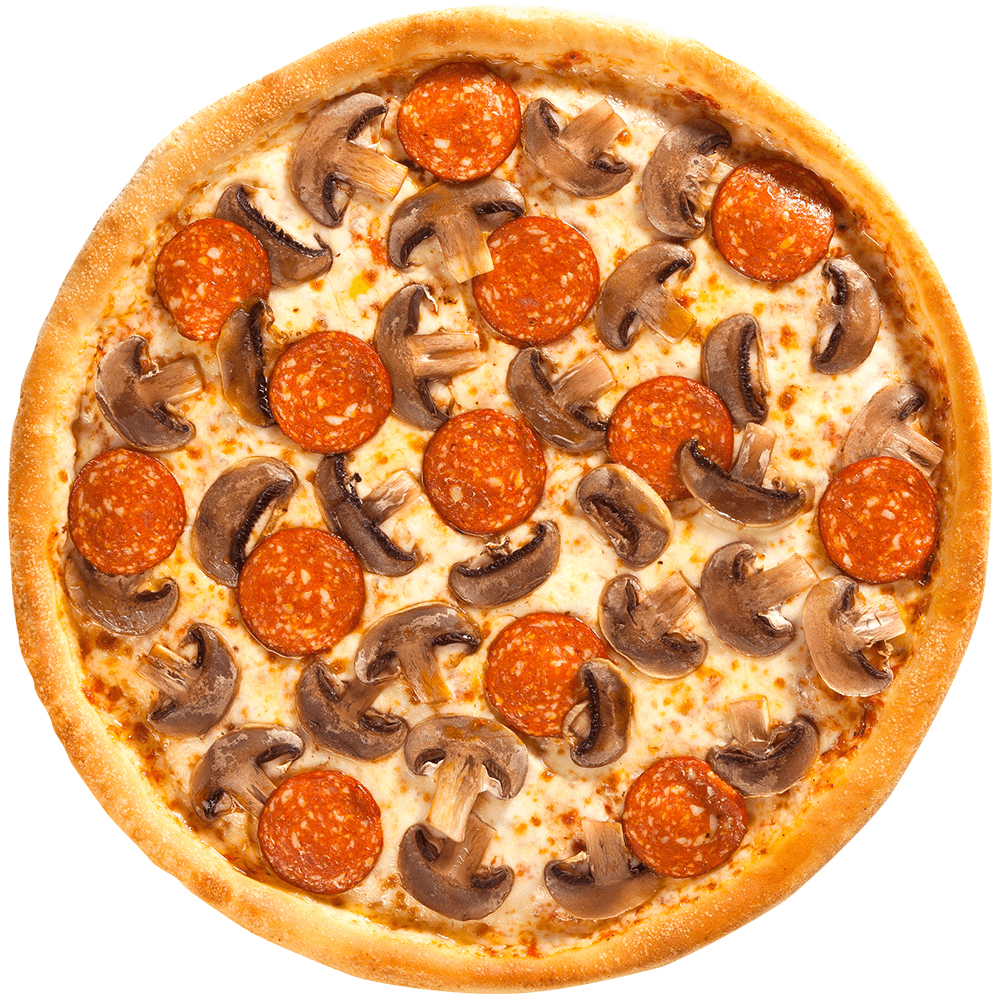
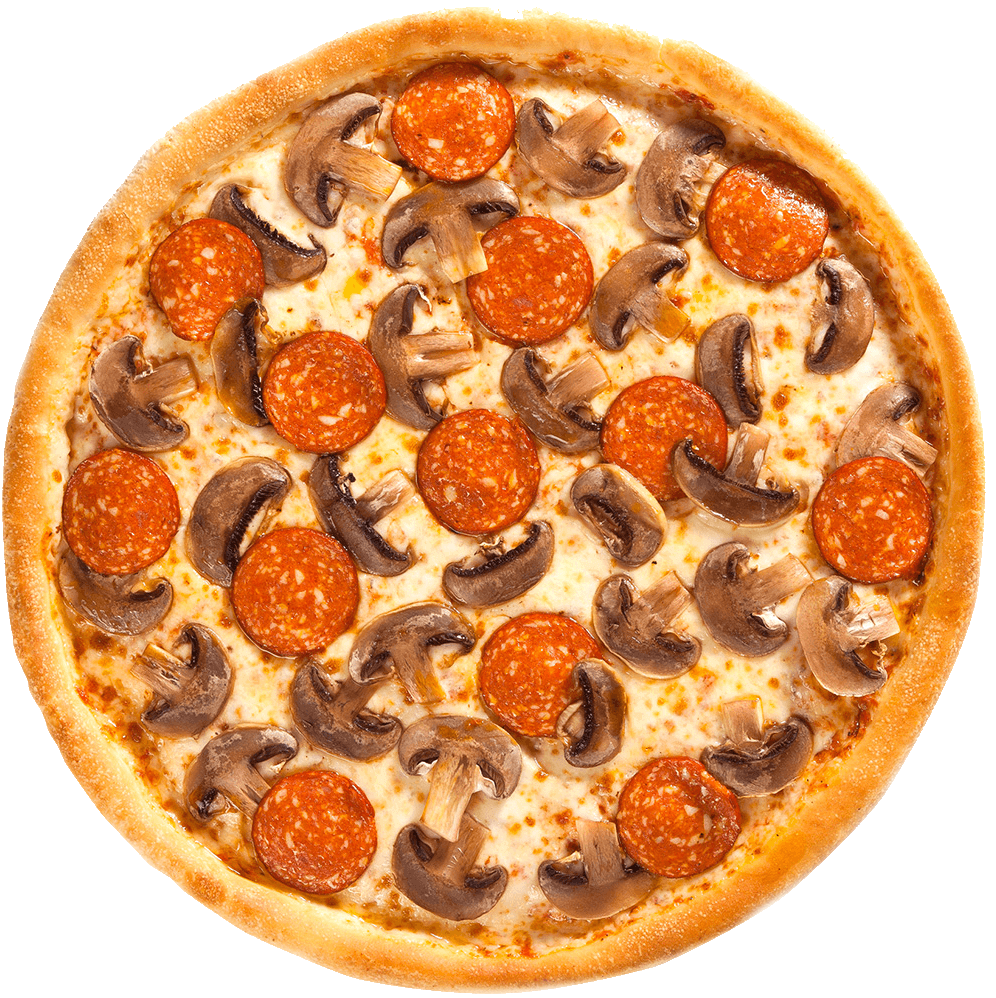
commit

diff --git a/app/index.html b/app/index.html
@@ -178,14 +178,14 @@
 								
 								<div class="sl-second__item"> 
 									<div class="sl-second__img">
-										<img src="img/neapolitana.png" alt="papperony">
+										<img src="img/pepperony.png" alt="papperony">
 										<div class="select-size clearfix">
 											<button class="select-size__btn">26</button>
 											<button class="select-size__btn">32</button>
-											<span class="price">10 руб. 50 коп.</span>
+											<span class="price">12 руб.</span>
 										</div>
 									</div>
-									<h2 class="sl-second__head">Пицца Неопалитана, 26см</h2>
+									<h2 class="sl-second__head">Пицца Пепперони, 26см</h2>
 									<p class="sl-second__desc">Манящая, свежая, аппетитная классическая Неаполитана скрасит любой вечер в любой компании.</p>
 									<p class="sl-second__comp"><span>Состав:</span> сыр, грибы, чеснок, острый перец, еще длинное наименование</p>
 									<button class="buttons"><i class="fa fa-check" aria-hidden="true"></i>Выбрать</button>
@@ -193,14 +193,14 @@
 
 								<div class="sl-second__item"> 
 									<div class="sl-second__img">
-										<img src="img/neapolitana.png" alt="papperony">
+										<img src="img/tropicana.png" alt="papperony">
 										<div class="select-size clearfix">
 											<button class="select-size__btn">26</button>
 											<button class="select-size__btn">32</button>
-											<span class="price">10 руб. 50 коп.</span>
+											<span class="price">8 руб. 70 коп.</span>
 										</div>
 									</div>
-									<h2 class="sl-second__head">Пицца Неопалитана, 26см</h2>
+									<h2 class="sl-second__head">Пицца Тропициана, 26см</h2>
 									<p class="sl-second__desc">Манящая, свежая, аппетитная классическая Неаполитана скрасит любой вечер в любой компании.</p>
 									<p class="sl-second__comp"><span>Состав:</span> сыр, грибы, чеснок, острый перец, еще длинное наименование</p>
 									<button class="buttons"><i class="fa fa-check" aria-hidden="true"></i>Выбрать</button>
